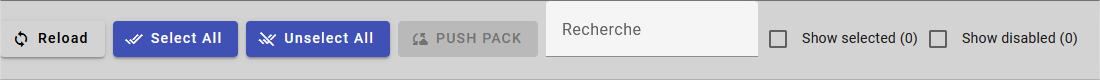
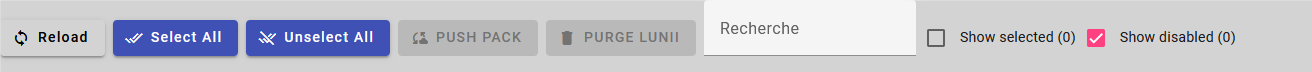
Add Purge + refacto

Changed region(s): [[0.0, 0.0, 1.0, 0.8056], [0.0, 0.9722, 1.0, 1.0]]

diff --git a/src/app/app.component.ts b/src/app/app.component.ts
@@ -5,10 +5,11 @@ import { PackModel } from './model/pack.model';
 import EventBus from 'vertx3-eventbus-client';
 import { UntypedFormControl, UntypedFormGroup } from '@angular/forms';
 import { debounceTime, forkJoin } from 'rxjs';
-import { StoriesList, StoryNameEnum } from './constante/story-name.enum';
 import { RepportMessageModel } from './model/repport.model';
 import { DatePipe } from '@angular/common';
 import { LuniiModel } from './model/lunii.model';
+import { ConfirmDialogComponent } from './component/confirm-dialog/confirm-dialog.component';
+import { MatDialog } from '@angular/material/dialog';
 
 const eb = new EventBus("http://localhost:8080/eventbus");
 
@@ -37,7 +38,7 @@ export class AppComponent implements OnInit {
     showDisabled: true,
   }
   
-  constructor(private api: ApiService, private toastr: ToastrService, private datePipe: DatePipe){
+  constructor(private api: ApiService, private toastr: ToastrService, private datePipe: DatePipe, public dialog: MatDialog){
   }
 
   ngOnInit() {
@@ -106,18 +107,13 @@ export class AppComponent implements OnInit {
     
           this.luniiPacksList = luniiPacks;
 
-          this.luniiPacksList.forEach(p => {
-            let siblingFind = 0;
-            getSiblingGuids(p.uuid).forEach(guid => {
-              const pack = this.libraryPacksList.find(p => p.uuid === guid);
+          this.luniiPacksList.forEach(lp => {
+              const pack = this.libraryPacksList.find(p => p.uuid === lp.uuid);
               if(pack){
-                siblingFind++;
                 pack.disabled = true;
+              } else {
+                this.unknownPack.push(lp);
               }
-            })
-            if(siblingFind === 0){
-              this.unknownPack.push(p);
-            }
           });         
 
           if(this.lunii?.plugged && this.libraryPacksList.every(p => p.disabled)){
@@ -182,7 +178,7 @@ export class AppComponent implements OnInit {
     for(let i = 0; i < packsToPush.length; i++){
       let p = packsToPush[i];
       this.rapportLog(p.title, `Ajout en cours (${i + 1}/${packsToPush.length})`, MessageTypeEnum.push);
-      await this.api.pushStorie(p.uuid, p.path).toPromise().then(async (s) => {
+      await this.api.pushStory(p.uuid, p.path).toPromise().then(async (s) => {
         await waitTransfert(s.transferId).then(() => {
           this.rapportLog(p.title, "Pack Ajouté", MessageTypeEnum.success);
         });
@@ -194,6 +190,39 @@ export class AppComponent implements OnInit {
     }
 
     this.reload();
+  }
+
+  async removePacks() {
+    if(!this.lunii?.plugged){
+      this.rapportLog("Lunii non connectée", "", MessageTypeEnum.error);
+      return;
+    }
+
+    const dialogRef = this.dialog.open(ConfirmDialogComponent, {
+      width: '200px'
+    });
+
+    dialogRef.afterClosed().subscribe(async result => {
+      if (result) {
+        this.loading = true;
+        for(let i = 0; i < this.luniiPacksList.length; i++){
+          let p = this.luniiPacksList[i];
+          this.rapportLog(p.title, `Retrait en cours (${i + 1}/${this.luniiPacksList.length})`, MessageTypeEnum.push);
+          await this.api.removeStory(p.uuid).toPromise().then(async (s) => {
+              this.rapportLog(p.title, "Pack Retiré", MessageTypeEnum.success);
+          })
+          .catch((error) => {
+            this.rapportLog(error.message, "ERREUR", MessageTypeEnum.error);
+          });
+          this.toastr.clear(this.currentToaster?.toastId);
+        }
+
+        this.rapportLog("Purge terminée", "", MessageTypeEnum.success);    
+        this.reload();
+      } else {
+        this.rapportLog("Purge annulé", "", MessageTypeEnum.info);
+      }
+    });
   }
 
   rapportLog(message: string, title?: string, type?: MessageTypeEnum){
@@ -235,18 +264,4 @@ function waitTransfert(transferId: string): Promise<void> {
 
       eb.registerHandler(address, handler);
   });
-}
-
-function getKeyByValue<T>(object: Record<string, T[]>, value: T): string | undefined {
-  return Object.keys(object).find(key => object[key].includes(value));
-}
-
-export function getSiblingGuids(guid: string): string[] {
-  const foundStoryKey = getKeyByValue(StoriesList, guid) as StoryNameEnum | undefined;
-
-  if (foundStoryKey) {
-      return StoriesList[foundStoryKey];
-  }
-
-  return [];
 }

diff --git a/src/app/app.component.html b/src/app/app.component.html
@@ -5,6 +5,7 @@
         <button mat-raised-button class="buttonAction" (click)="changeSelectionAll(true)" [disabled]="loading" color="primary"><mat-icon>done_all</mat-icon>Select All</button>
         <button mat-raised-button class="buttonAction" (click)="changeSelectionAll(false)" [disabled]="loading" color="primary"><mat-icon>remove_done</mat-icon>Unselect All</button>
         <button mat-raised-button class="buttonAction" (click)="pushPacks()" color="warn" [disabled]="!lunii?.plugged || loading || countSelectedPacks() < 1 || rapportForm.get('nameFilter')?.value !== ''"><mat-icon>cloud_sync</mat-icon>PUSH PACK</button>
+        <button mat-raised-button class="buttonAction" (click)="removePacks()" color="warn" [disabled]="!lunii?.plugged || loading" ><mat-icon>delete</mat-icon>PURGE LUNII</button>
         <mat-form-field>
             <mat-label>Recherche</mat-label>
             <input

diff --git a/src/app/app.module.ts b/src/app/app.module.ts
@@ -15,10 +15,13 @@ import { MatFormFieldModule } from '@angular/material/form-field';
 import {TextFieldModule} from '@angular/cdk/text-field'; 
 import { MatIconModule } from '@angular/material/icon';
 import { MatInputModule } from '@angular/material/input';
+import { ConfirmDialogComponent } from './component/confirm-dialog/confirm-dialog.component';
+import { MatDialogModule } from '@angular/material/dialog';
 
 @NgModule({
   declarations: [
-    AppComponent
+    AppComponent,
+    ConfirmDialogComponent
   ],
   imports: [
     CommonModule,
@@ -36,6 +39,7 @@ import { MatInputModule } from '@angular/material/input';
     TextFieldModule,
     MatIconModule,
     MatInputModule,
+    MatDialogModule,
   ],
   providers: [DatePipe],
   bootstrap: [AppComponent]

diff --git a/src/app/service/api.service.ts b/src/app/service/api.service.ts
@@ -27,9 +27,15 @@ import { LuniiModel } from "../model/lunii.model";
         });
     }
 
-    public pushStorie(_uuid: string, _path: string) {
+    public pushStory(_uuid: string, _path: string) {
         return this.http.post<any>("http://localhost:8080/api/device/addFromLibrary", 
             JSON.stringify({uuid: _uuid, path: _path})
+        );
+    }
+
+    public removeStory(_uuid: string) {
+        return this.http.post<any>("http://localhost:8080/api/device/removeFromDevice", 
+            JSON.stringify({uuid: _uuid})
         );
     }
 

diff --git a/src/app/component/confirm-dialog/confirm-dialog.component.ts b/src/app/component/confirm-dialog/confirm-dialog.component.ts
@@ -1,0 +1,16 @@
+import { Component, OnInit } from '@angular/core';
+import { MatDialogRef } from '@angular/material/dialog';
+
+@Component({
+  selector: 'app-confirm-dialog',
+  templateUrl: './confirm-dialog.component.html',
+  styleUrls: ['./confirm-dialog.component.css']
+})
+export class ConfirmDialogComponent {
+
+  constructor(public dialogRef: MatDialogRef<ConfirmDialogComponent>) { }
+
+  onNoClick(): void {
+    this.dialogRef.close();
+  }
+}

diff --git a/src/app/component/confirm-dialog/confirm-dialog.component.html b/src/app/component/confirm-dialog/confirm-dialog.component.html
@@ -1,0 +1,8 @@
+<h1 mat-dialog-title>Purge de la Lunii</h1>
+<div mat-dialog-content>
+  Etes-vous sur ?
+</div>
+<div mat-dialog-actions>
+  <button mat-button (click)="onNoClick()">Annuler</button>
+  <button mat-button color="warn" [mat-dialog-close]="true" cdkFocusInitial>Confirmer</button>
+</div>

diff --git a/README.md b/README.md
@@ -40,6 +40,7 @@ Au démarrage de la solution, ETLP va lancer le script [update-official-img.bat]
 - Bouton "**Select All**" : permet de sélectionner tous les packs affichés
 - Bouton "**Unselect All**" : permet de désélectionner tous les packs affichés
 - Bouton "**PUSH PACK**" : permet d'envoyer les packs sélectionnés vers la Lunii\* (disponible uniquement lorsqu'une Lunii\* est détectée, qu'il n'y a pas de recherche et qu'au moins un pack est sélectionné)
+- Bouton "**PURGE LUNII**" : permet de supprimer TOUS les packs présents sur la Lunii\* (disponible uniquement lorsqu'une Lunii\* est détectée)
 - Champ "**Recherche**" : permet de filtrer la liste des packs affichés
 - Coche "**Show selected (x)**" : permet d'afficher uniquement les packs sélectionnés, prenant en compte le champ "Recherche". (x) indique le nombre total de packs sélectionnés.
 - Coche "**Show disabled (x)**" : permet d'afficher les packs désactivés, sans prendre en compte le champ "Recherche". (x) indique le nombre total de packs désactivés.
@@ -52,7 +53,7 @@ Au démarrage de la solution, ETLP va lancer le script [update-official-img.bat]
 
 - "**Librairie (x)**" : indique si la bibliothèque STUdio\* est connectée (affiché en vert si OK, en rouge sinon). (x) indique le nombre de packs exploitables détectés.
 - Icône "**Rapport**" : permet d'afficher dans la console du navigateur le contenu de certaines variables. A destination des Devs.
-- "**Lunii** (x) + (y)" : indique si la Lunii\* est bien connectée (affiché en vert si OK, en rouge sinon). (x) indique le nombre de packs présents sur la Lunii\*. (y) indique le nombre de packs non connus (selon le matching du fichier [story-name.enum.ts](/src/app/constante/story-name.enum.ts)).
+- "**Lunii** (x) + (y)" : indique si la Lunii\* est bien connectée (affiché en vert si OK, en rouge sinon). (x) indique le nombre de packs présents sur la Lunii\*. (y) indique le nombre de packs non présents dans la bibliothèque STUdio\*.
 
 ### 3. Le bandeau de rapport
 
@@ -68,7 +69,7 @@ Au démarrage de la solution, ETLP va lancer le script [update-official-img.bat]
 
 ### 4. Le bandeau des packs
 
->Le bandeau affiche le contenu de la bibliothèque STUdio\*. Par défaut, les packs désactivés ne sont pas affichés. Seuls les packs au format 'fs' sont pris en charge.
+>Le bandeau affiche le contenu de la bibliothèque STUdio\*. Seuls les packs au format 'fs' sont pris en charge.
 
 ![Le bandeau des packs](/src/assets/readme/bandeau-packs.png)
 
@@ -77,7 +78,7 @@ Chaque pack est affiché dans une "card". Celle-ci comporte :
 - Un titre
 - Une image
 
->NB : Les packs sont désactivés s'il existe une version, officielle ou non, de ce pack sur la Lunii\* (selon le matching du fichier [story-name.enum.ts](/src/app/constante/story-name.enum.ts))
+>NB : Les packs sont désactivés s'il existe une version de ce pack sur la Lunii\*
 
 ## Prochaines étapes
 
